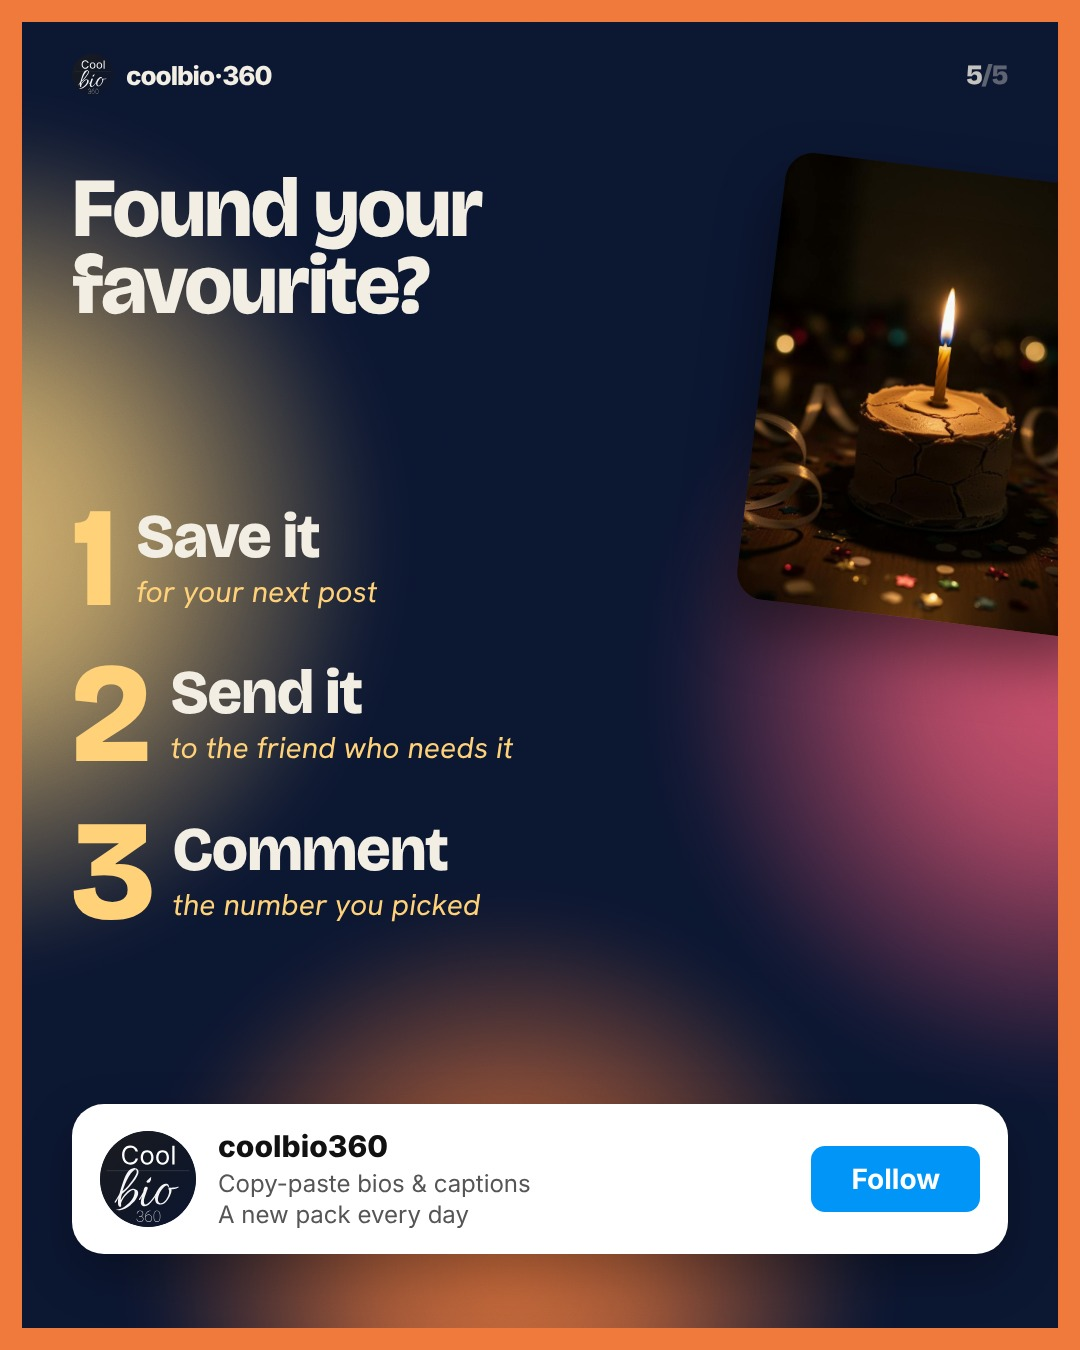
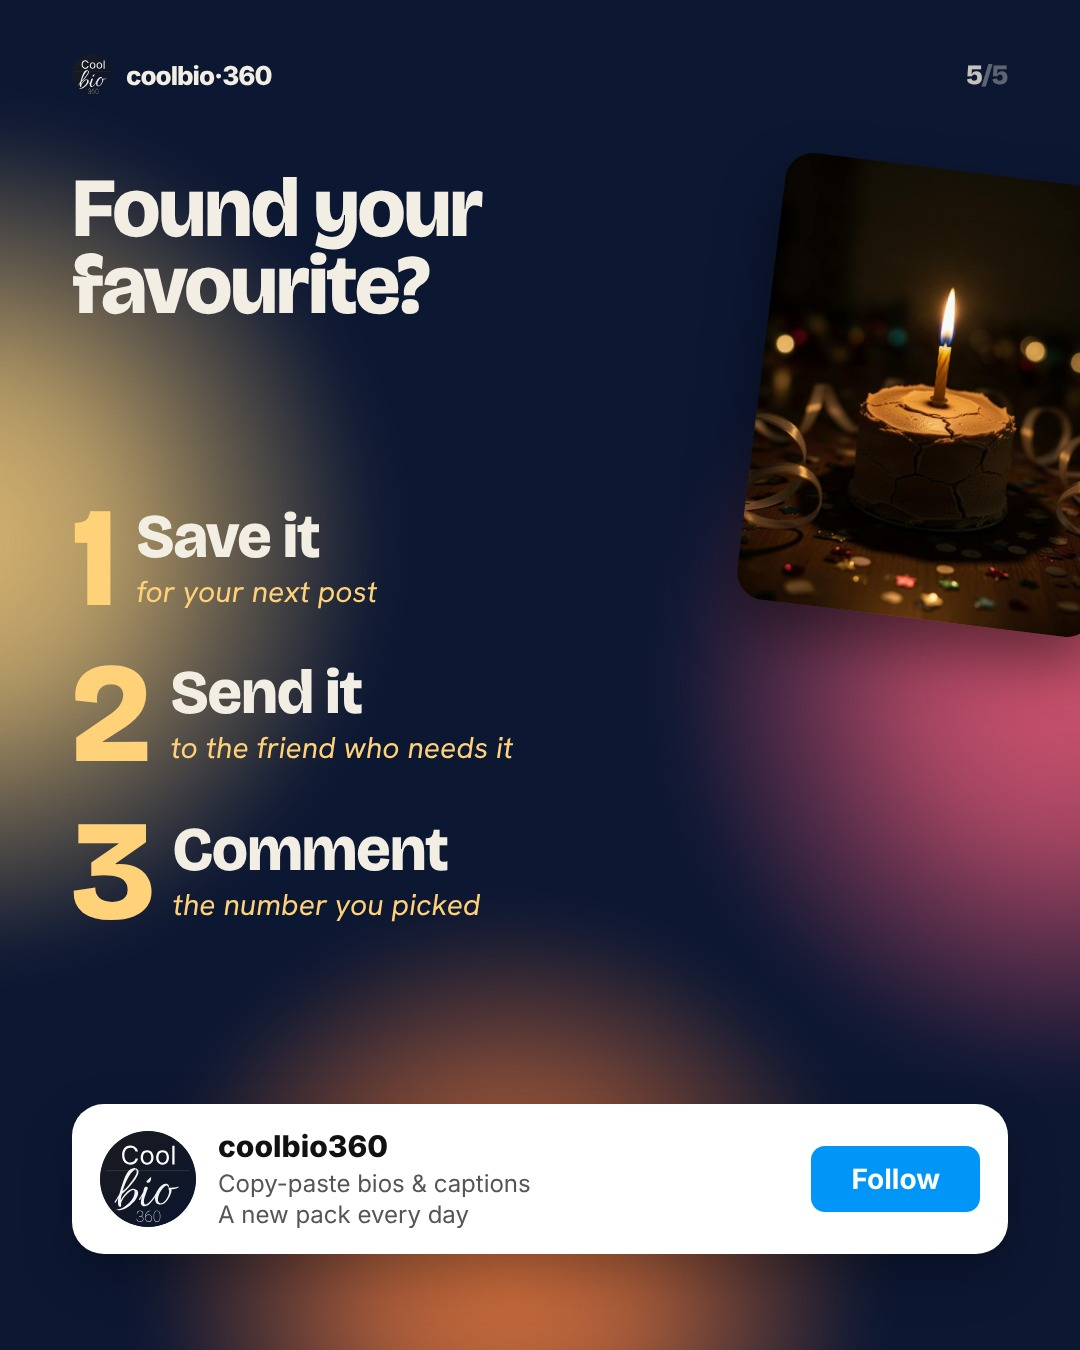
Post da copiare: solo font Bricolage e accento oro sulla grafica v9
Claude-Session: https://claude.ai/code/session_01JL8RT6ZiLuziuRoxLPPpLq

Changed region(s): [[0.0, 0.0, 1.0, 1.0]]

diff --git a/tools/packs/gen_pack7.py b/tools/packs/gen_pack7.py
@@ -20,15 +20,13 @@ def under(word,col=GOLD):
 def finish(h,p):
     h=h.replace('</head>',BRIC+f'<style>{CSS}</style></head>',1)
     # seconda riga del titolo: colore pieno + sottolineatura oro sulla prima parola
-    h=re.sub(r'<span style="background:linear-gradient\(90deg,[^"]*?background-clip:text;color:transparent">([^<]*)</span>',lambda m:f'<span style="color:{p["accent"]}">{m.group(1)}</span>',h)
     k=h.find('<h1'); 
     if k>0:
         e=h.find('</h1>',k); seg=h[k:e]; w=E(p['uw'])
         j=seg.find('>'+w) if seg.find('>'+w)>=0 else seg.find(' '+w)
         if j>=0: j+=1; seg=seg[:j]+under(w)+seg[j+len(w):]
         h=h[:k]+seg+h[e:]
-    i=h.rfind('</div></body>')
-    return h[:i]+f'<div style="position:absolute;inset:0;border:22px solid {p["A2"]};z-index:9;pointer-events:none"></div>'+h[i:]
+    return h
 def cover_emoji(p,n,img):
     A,A2=p['accent'],p['A2']; l1,l2=p['t3'].split('|'); s0=p['slides'][0]['bios']
     big=''.join(f'<div style="font-size:{[230,190,210][k]}px;line-height:1;transform:rotate({[-8,6,-3][k]}deg);filter:drop-shadow(0 20px 30px rgba(0,0,0,.45))">{E(s0[k])}</div>' for k in range(3))
@@ -41,7 +39,7 @@ def cover_emoji(p,n,img):
     return P6.page(b,NAVY)
 L5.COVERS['emoji']=cover_emoji
 PLAN={'winter01':('photo',['chat','stack','spectrum']),'user01':('arch',['bento','notes','story','ladder']),
-      'emoji01':('emoji',['spectrum','bento','chat','feature']),'bday01':('photo',['comments','feature','notes']),'meme01':('type',['meme','memechat'])}
+      'emoji01':('type',['spectrum','bento','chat','feature']),'bday01':('photo',['comments','feature','notes']),'meme01':('type',['meme','memechat'])}
 P6.PLAN.update(PLAN); P6.TONE['emoji']='d'
 def build(p):
     return [finish(h,p) for h in P6.build(p)]
